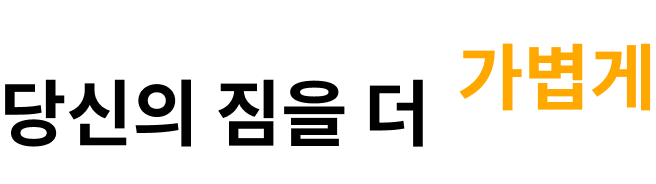
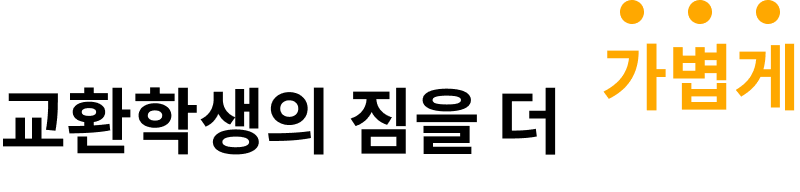
✨ 시작페이지 로고 수정

diff --git a/src/pages/Start.js b/src/pages/Start.js
@@ -2,6 +2,7 @@ import React from "react";
 import styled from "styled-components";
 import logo from "../assets/StartPage/logo.png";
 import title from "../assets/StartPage/title.png";
+import newLogo from "../assets/common/newLogo.png";
 import { useNavigate } from "react-router-dom";
 
 const Start = () => {
@@ -10,6 +11,7 @@ const Start = () => {
   return (
     <StartScreenContainer>
       <Logo>
+        <NewLogoImg src={newLogo} alt="newLogo" />
         <LogoImg src={logo} alt="logo" />
         <TitleImg src={title} alt="title" />
       </Logo>
@@ -26,13 +28,18 @@ const StartScreenContainer = styled.div`
   height: 100vh;
 `;
 
+const NewLogoImg = styled.img`
+  width: 50px;
+  margin-bottom: 30px;
+`;
+
 const LogoImg = styled.img`
-  width: 168px;
+  width: 60%;
+  margin-bottom: 75px;
 `;
 
 const TitleImg = styled.img`
-  width: 164px;
-  height: 46px;
+  width: 50%;
 `;
 
 const Logo = styled.div`

diff --git a/src/components/MyPage/UserInfo.js b/src/components/MyPage/UserInfo.js
@@ -1,6 +1,6 @@
 import React, { useState, useEffect } from "react";
 import styled from "styled-components";
-import setting from "../../assets/setting.png";
+import setting from "../../assets/MyPage/setting.png";
 import Modal from "../UpdateUni/Modal";
 import { getMyProfile, putSchool } from "../../api/member";
 import Profile from "../Common/Profile";
@@ -83,7 +83,6 @@ const UserInfo = ({ setIsModalVisible }) => {
           />
         ) : null}
       </UserInfoContainer>
-      <Line />
     </>
   );
 };
@@ -125,11 +124,5 @@ const Icon2 = styled.img`
   cursor: pointer; /* Add this to indicate the icon is clickable */
 `;
 
-const Line = styled.div`
-  width: 400px;
-  height: 0.5px;
-  background-color: #d9d9d9;
-  margin-bottom: 10px;
-`;
 
 export default UserInfo;

diff --git a/src/components/MyPage/Contents.js b/src/components/MyPage/Contents.js
@@ -1,8 +1,8 @@
 import React from "react";
 import styled from "styled-components";
-import list_gray from "../../assets/list_gray.png";
-import chat_gray from "../../assets/chat_gray.png";
-import heart_gray from "../../assets/heart_gray.png";
+import list_gray from "../../assets/MyPage/list_gray.png";
+import chat_gray from "../../assets/MyPage/chat_gray.png";
+import heart_gray from "../../assets/MyPage/chat_gray.png";
 import ListItem from "./ListItem";
 import UserInfo from "./UserInfo";
 import { useNavigate } from "react-router-dom";

diff --git a/src/components/MyPage/ListItem.js b/src/components/MyPage/ListItem.js
@@ -13,7 +13,6 @@ const ListItemContainer = styled.div`
   display: flex;
   align-items: center;
   cursor: pointer;
-
   &:hover {
     background: #ffee94;
   }
